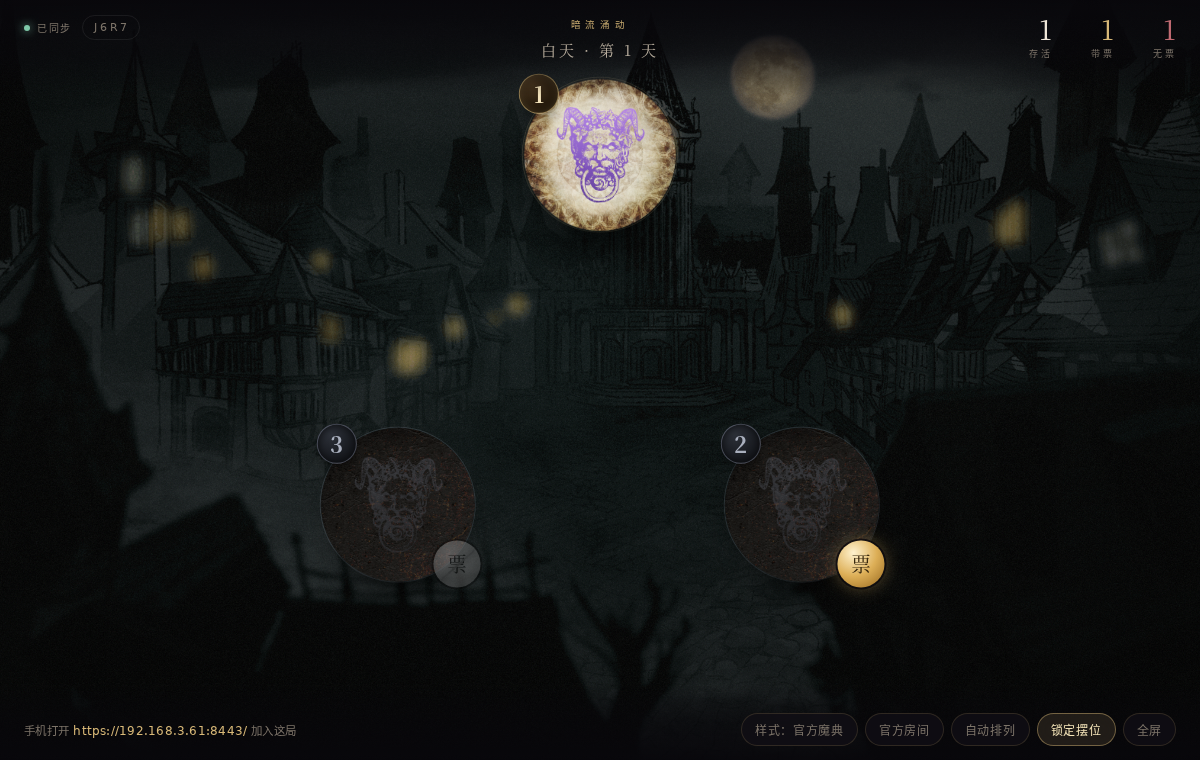
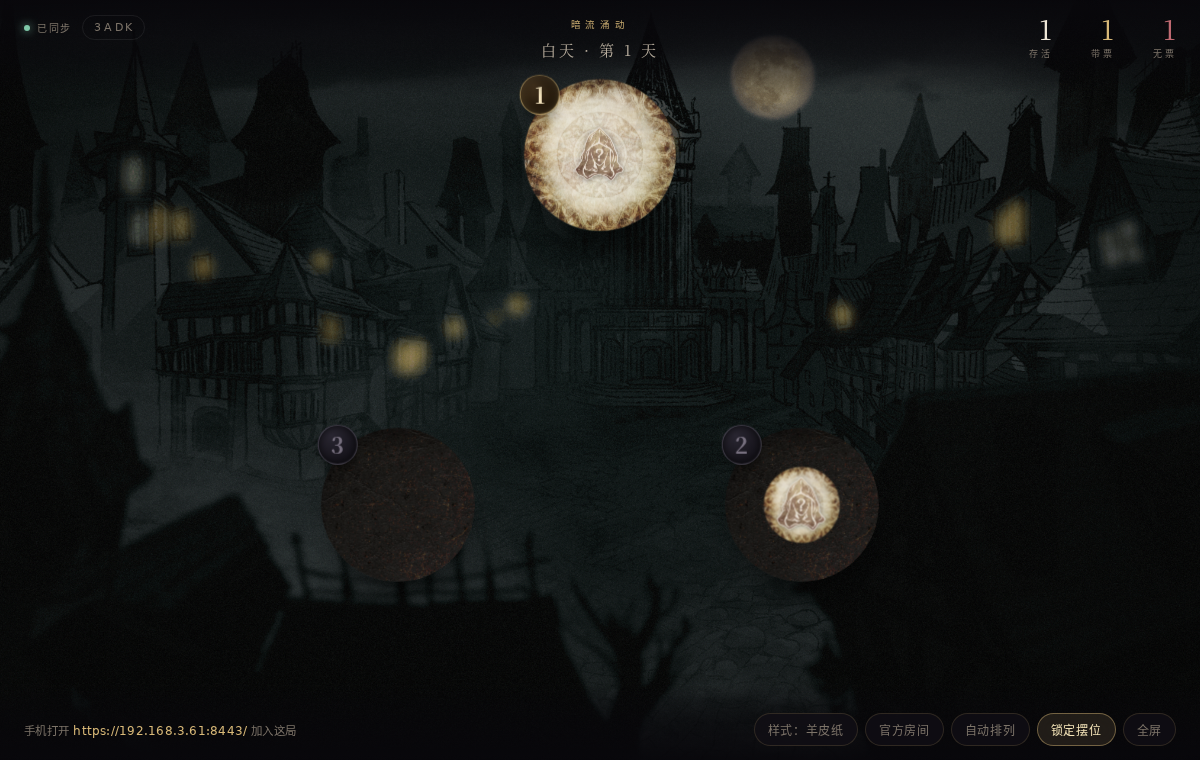
feat(square): 官方魔典样式改用官方原图（life1/death1/vote1），死亡带票叠 50% 筹码，去掉名字

diff --git a/public/css/square.css b/public/css/square.css
@@ -502,9 +502,12 @@ body[data-locked="1"] .plate:active { cursor: default; }
 .watch-chip.on i { background: var(--ok); box-shadow: 0 0 8px var(--ok); }
 .watch-chip b { font-weight: 500; overflow: hidden; text-overflow: ellipsis; white-space: nowrap; }
 
-/* ============ 样式 B：官方魔典（隐藏模式） ============
-   素材全部取自官方魔典本体：bg_night / token1 / death1 / demon-head。
-   牌位是一枚圆形筹码，底部不再显示名字，只留座位号。 */
+/* ============ 样式 B：官方魔典（隐藏角色）============
+   素材取自官方魔典本体（/assets/seat/）：
+     存活     = life1.png
+     死亡     = death1.png（黑石盘）
+     死亡带票 = death1.png + vote1.png（缩到中间 50%）
+   牌位是一个圆形筹码，底部不显示名字，只留座位号。 */
 body.theme-official { background: #05060a; }
 body.theme-official .bg {
   background-image: url("/gs/oss/data_file/clocktower/web/bg_night.png");
@@ -513,7 +516,7 @@ body.theme-official .bg {
   background-repeat: no-repeat;
 }
 body.theme-official .bg::before {
-  background: radial-gradient(ellipse 78% 72% at 50% 44%, rgba(0, 0, 0, 0.22), rgba(0, 0, 0, 0.72) 100%);
+  background: radial-gradient(ellipse 78% 72% at 50% 44%, rgba(0, 0, 0, 0.18), rgba(0, 0, 0, 0.66) 100%);
   opacity: 1;
 }
 body.theme-official .ring,
@@ -525,43 +528,34 @@ body.theme-official .plate {
   border-radius: 50%;
   padding: 0;
   border: 0;
-  background: url("/gs/oss/data_file/clocktower/web/token1.png") center / cover no-repeat;
-  box-shadow: 0 30px 50px -26px rgba(0, 0, 0, 0.95), 0 0 0 1px rgba(214, 192, 150, 0.16);
+  background: url("/assets/seat/official-life1.png") center / cover no-repeat;
+  box-shadow: 0 30px 50px -26px rgba(0, 0, 0, 0.95);
+  transition: background 0.45s, box-shadow 0.45s;
 }
-body.theme-official .plate[data-status="deadVote"],
-body.theme-official .plate[data-status="deadNone"] {
-  background-image: url("/gs/oss/data_file/clocktower/web/death1.png");
-  box-shadow: 0 26px 44px -26px rgba(0, 0, 0, 0.95), 0 0 0 1px rgba(150, 158, 180, 0.2);
+body.theme-official .plate.is-dead {
+  background-image: url("/assets/seat/official-death1.png");
+  box-shadow: 0 26px 44px -26px rgba(0, 0, 0, 0.95);
 }
 body.theme-official .plate::before { display: none; }
 
-/* 中央恶魔头（官方那张羊皮纸筹码的标记） */
-body.theme-official .plate::after {
+/* 死亡带票：中间叠 50% 的羊皮纸筹码（官方 .player.dead .life:after 的做法） */
+body.theme-official .plate.is-dead::after {
   content: "";
   position: absolute;
   left: 50%;
   top: 50%;
-  width: 58%;
-  height: 62%;
+  width: 50%;
+  height: 50%;
   transform: translate(-50%, -50%);
-  background: linear-gradient(180deg, #b483ec 0%, #7d4fc0 58%, #573493 100%);
-  -webkit-mask: url("/gs/oss/data_file/clocktower/web/demon-head.png") center / contain no-repeat;
-  mask: url("/gs/oss/data_file/clocktower/web/demon-head.png") center / contain no-repeat;
-  filter: drop-shadow(0 0 7px rgba(150, 100, 220, 0.35));
-  opacity: 0.94;
+  background: url("/assets/seat/official-vote1.png") center / contain no-repeat;
   pointer-events: none;
-  transition: filter 0.5s, opacity 0.5s;
 }
-body.theme-official .plate[data-status="deadVote"]::after,
-body.theme-official .plate[data-status="deadNone"]::after {
-  background: linear-gradient(180deg, #6b707e 0%, #41454f 100%);
-  filter: none;
-  opacity: 0.34;
-}
+body.theme-official .plate[data-status="deadNone"]::after { display: none; }
 
-/* 名字和死亡印章全部去掉 */
+/* 名字、死亡印章、票面全部去掉 */
 body.theme-official .plate .nm,
-body.theme-official .plate .stamp { display: none; }
+body.theme-official .plate .stamp,
+body.theme-official .plate .token { display: none !important; }
 
 /* 座位号：左上角小铜牌 */
 body.theme-official .coin {
@@ -569,25 +563,10 @@ body.theme-official .coin {
   height: calc(var(--plate-w, 170px) * 0.2);
   min-width: 20px;
   min-height: 20px;
-  transform: translate(-10%, -10%);
-  background: radial-gradient(circle at 34% 26%, #45331d, #1d1409 72%);
-  border: 1px solid rgba(214, 186, 122, 0.62);
-  color: #f2e2bb;
-  box-shadow: 0 10px 18px -10px rgba(0, 0, 0, 0.9), inset 0 0 8px rgba(214, 186, 122, 0.2);
+  transform: translate(-8%, -8%);
+  background: radial-gradient(circle at 34% 26%, #46341e, #1d1409 72%);
+  border: 1px solid rgba(216, 186, 122, 0.65);
+  color: #f3e3bd;
+  box-shadow: 0 10px 18px -10px rgba(0, 0, 0, 0.9), inset 0 0 8px rgba(216, 186, 122, 0.22);
   font-size: clamp(11px, calc(var(--plate-w, 170px) * 0.116), 22px);
-}
-body.theme-official .plate.is-dead .coin {
-  background: radial-gradient(circle at 34% 26%, #2c3038, #15171c 72%);
-  border-color: rgba(160, 168, 190, 0.34);
-  color: #a9afbd;
-}
-
-/* 鬼票挪到右下角 */
-body.theme-official .token {
-  top: auto;
-  bottom: 0;
-  right: 0;
-  width: calc(var(--plate-w, 170px) * 0.24);
-  height: calc(var(--plate-w, 170px) * 0.24);
-  transform: translate(12%, 12%);
 }
